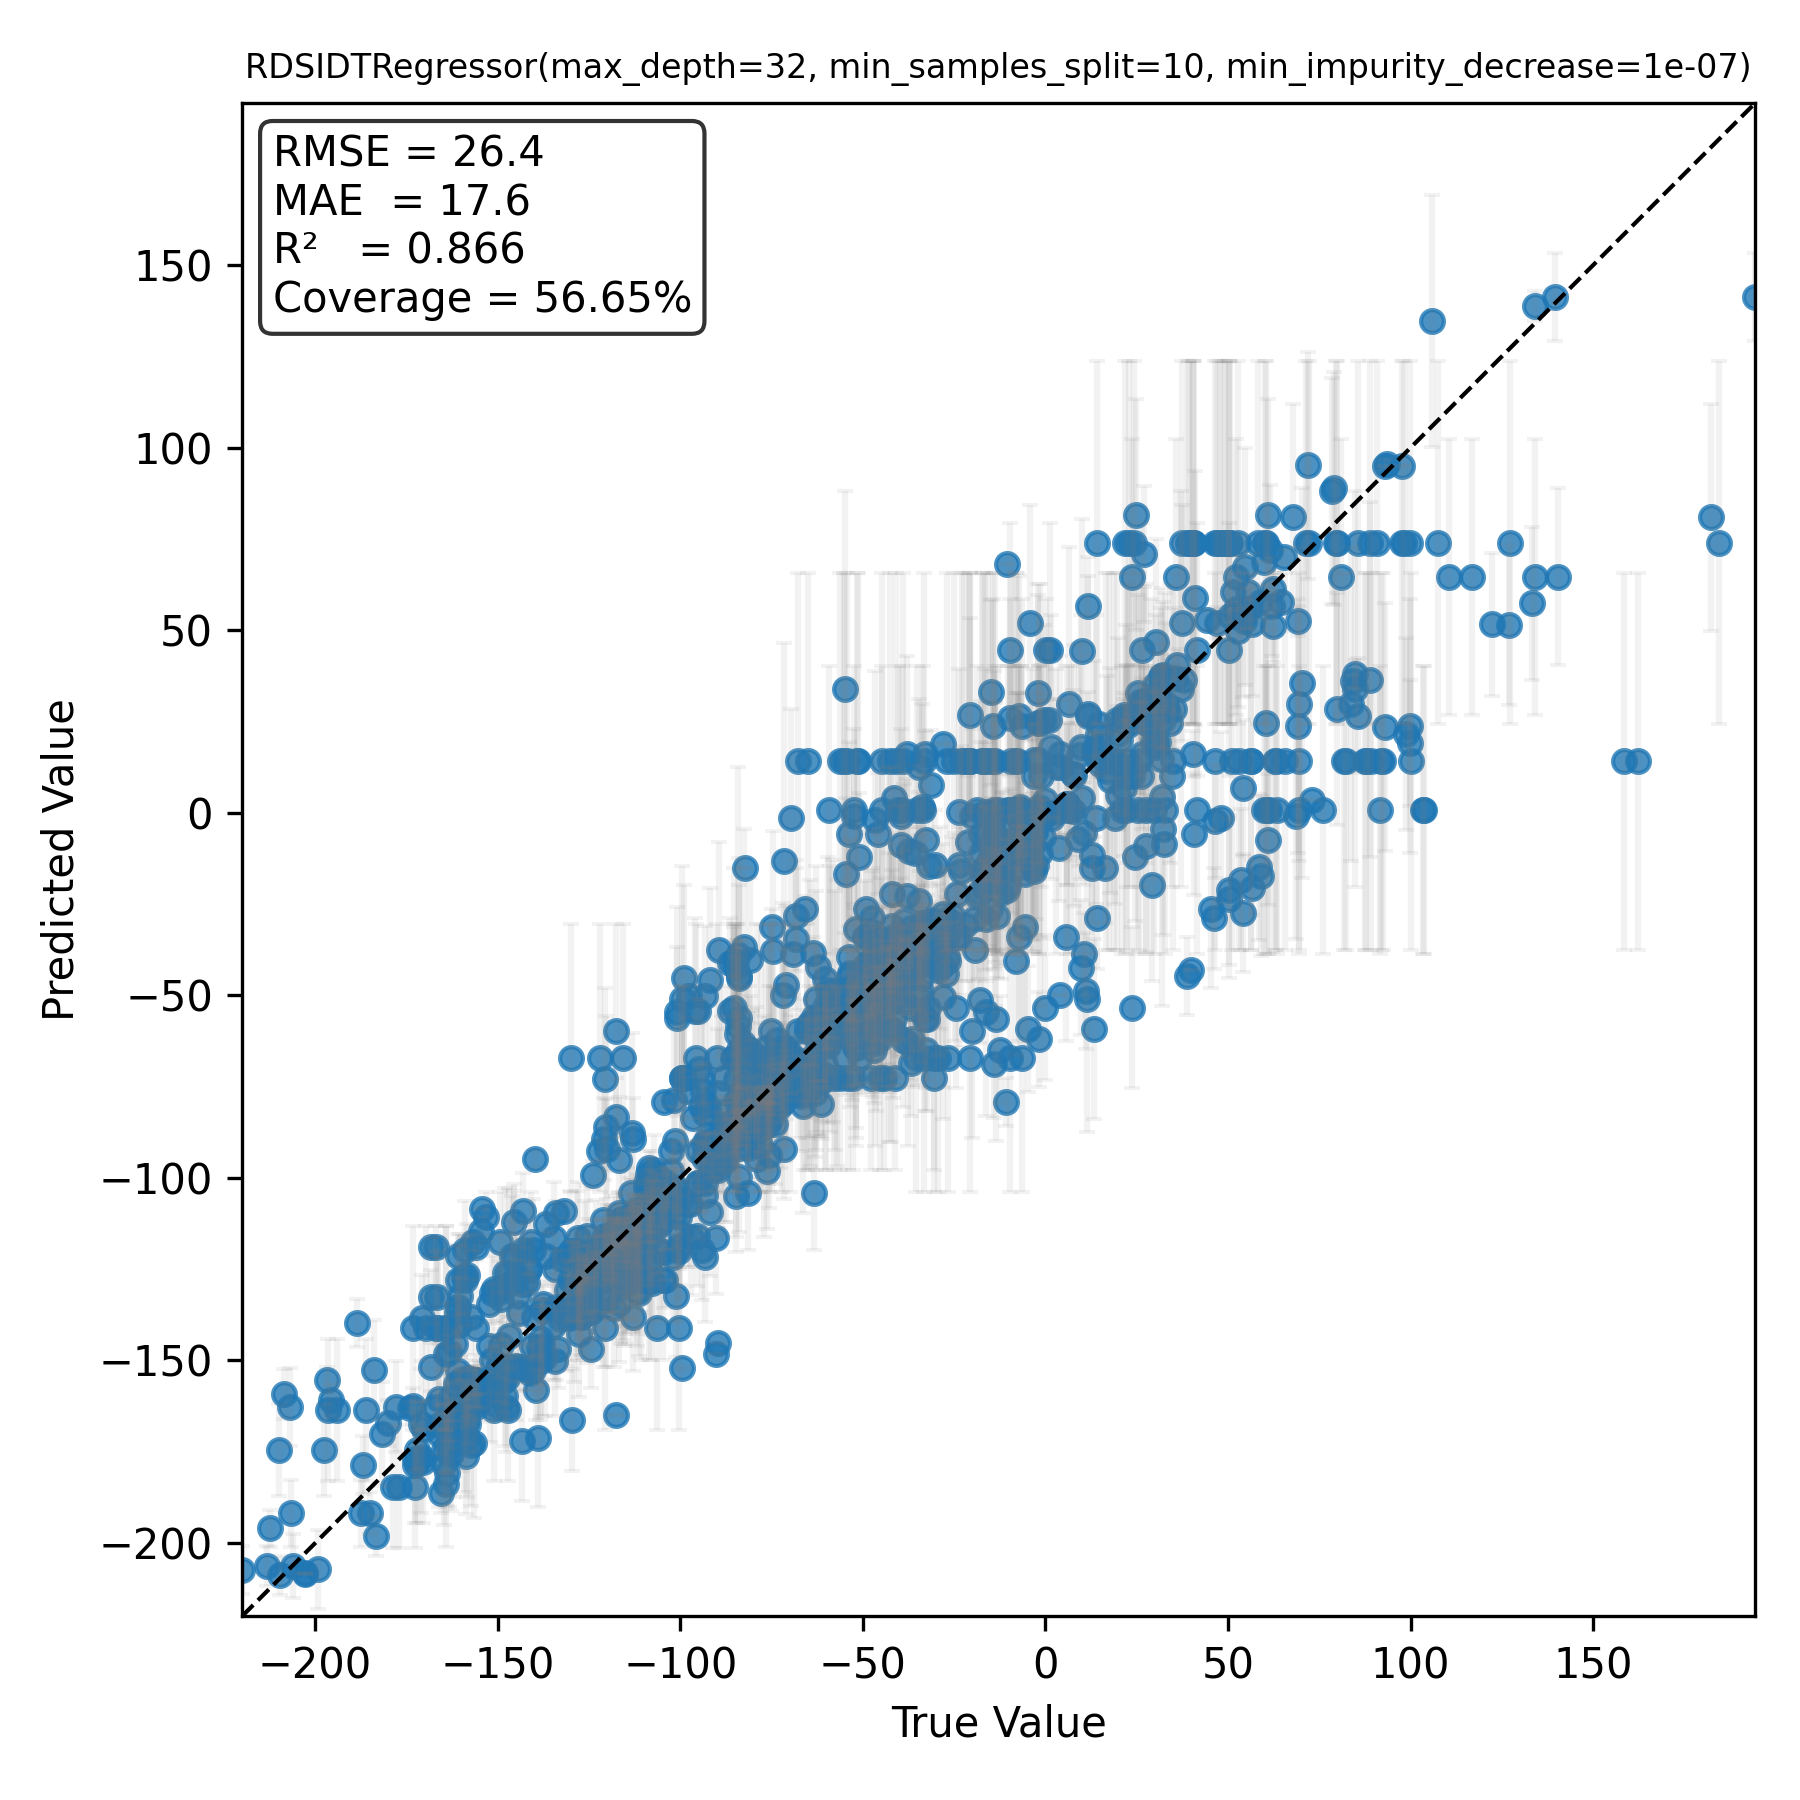
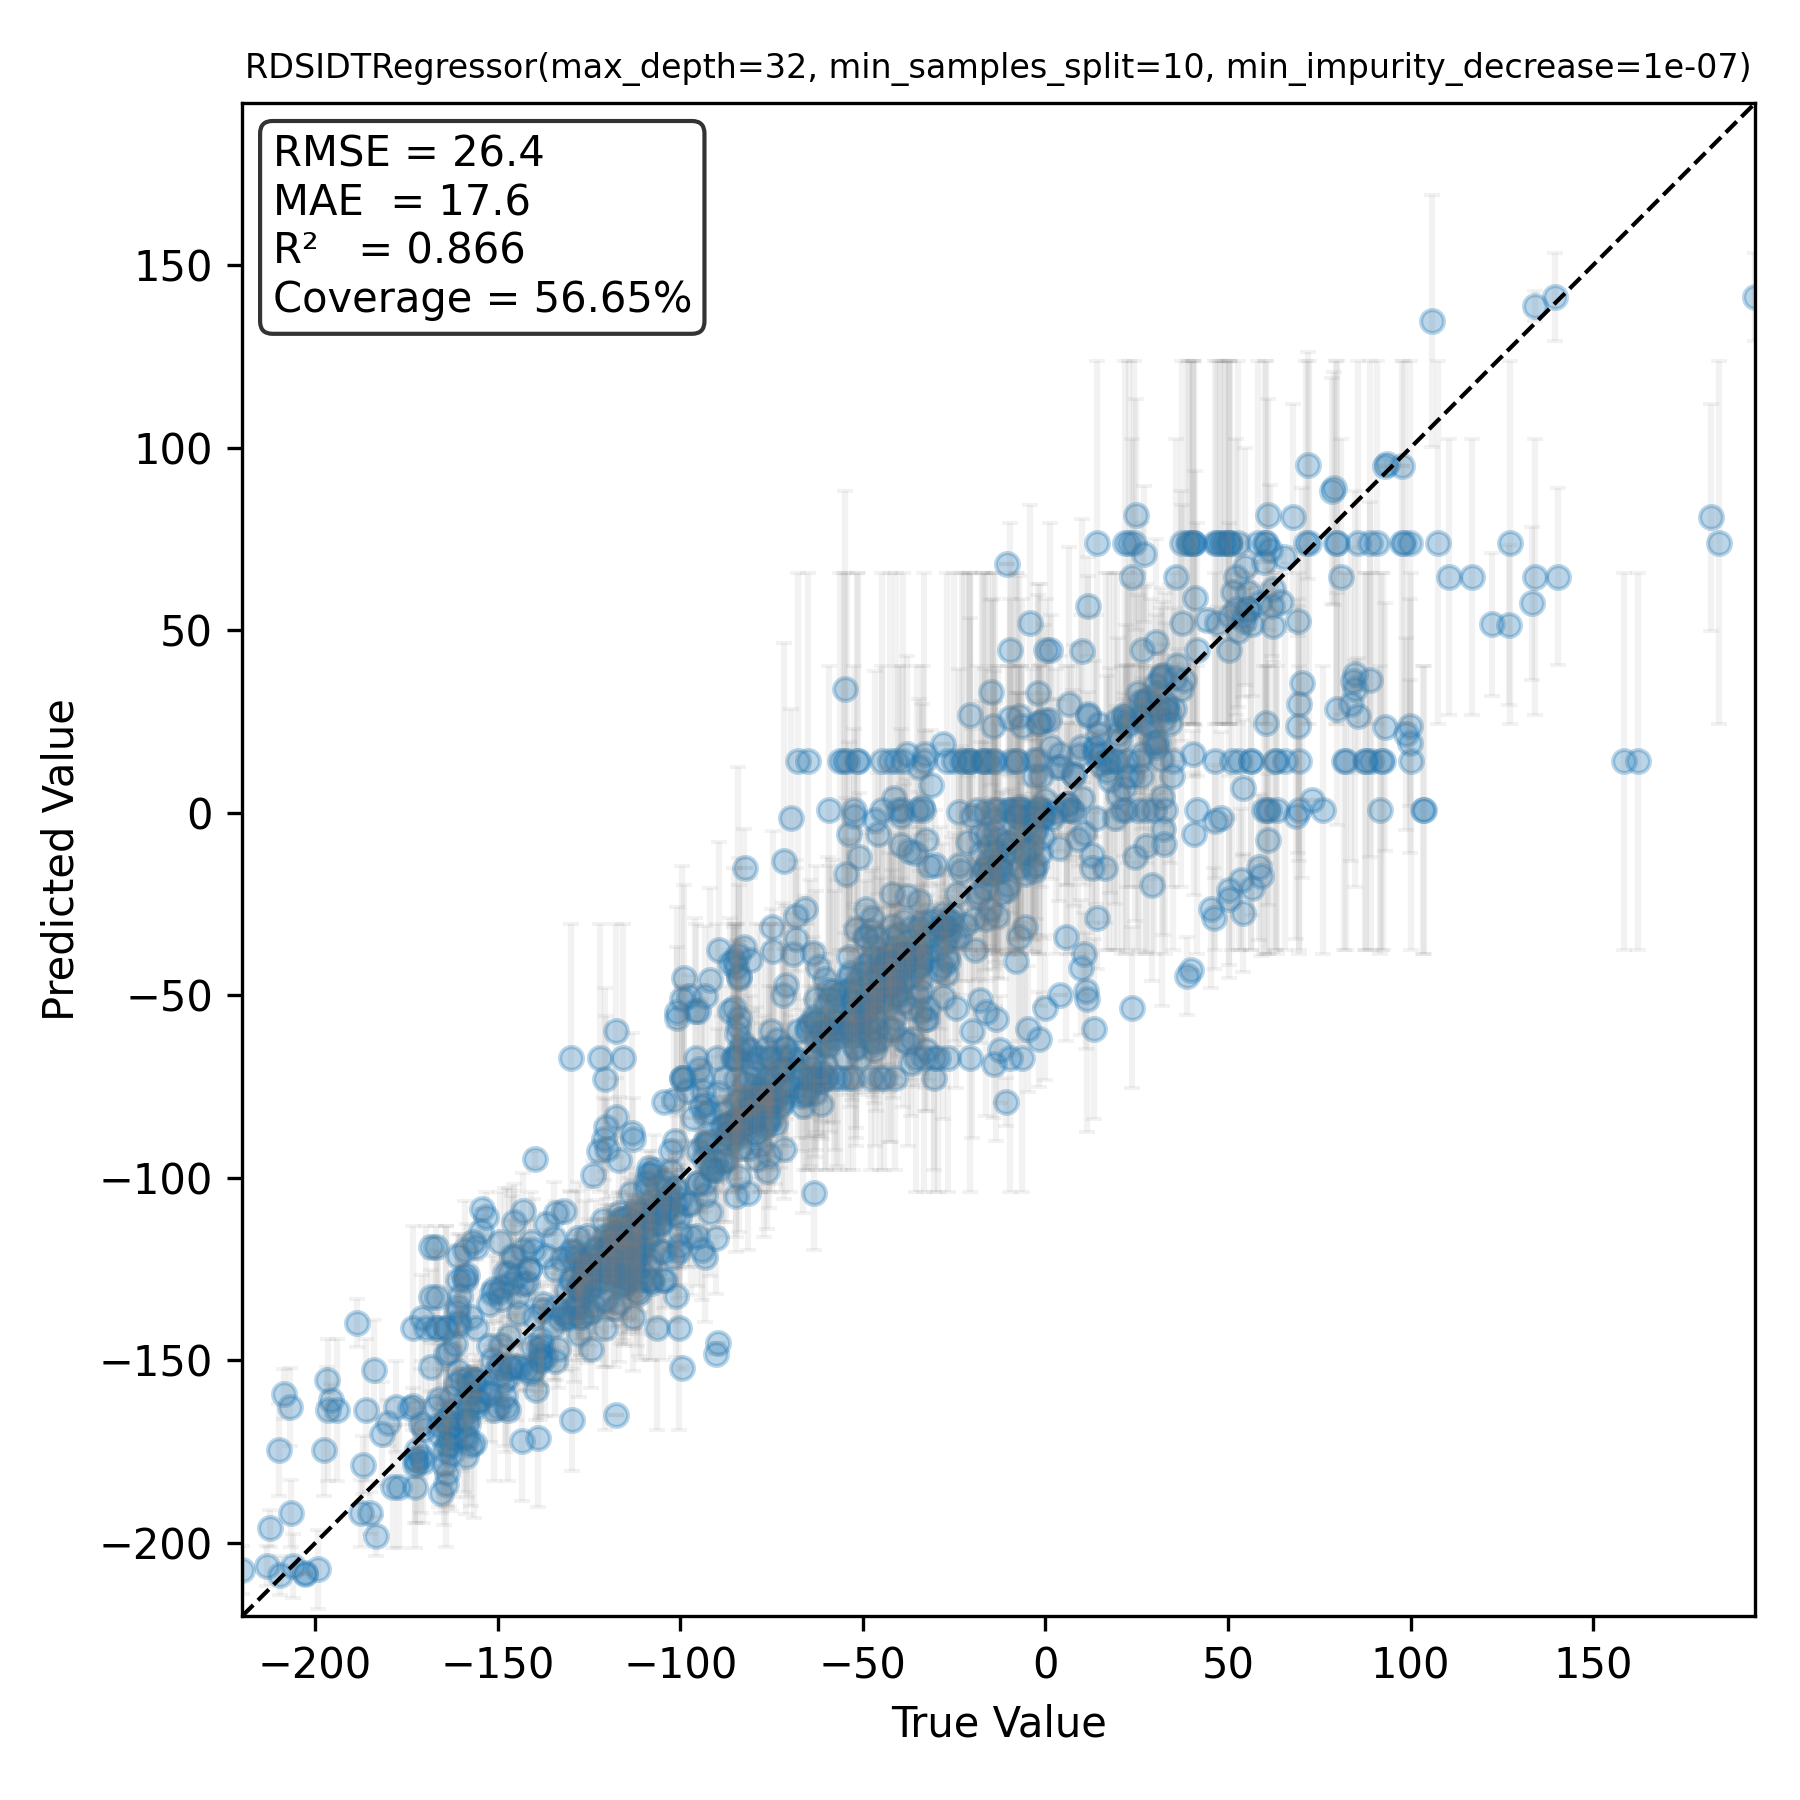
beautify

diff --git a/parity.py b/parity.py
@@ -37,7 +37,7 @@ def parity_plot_with_intervals(
     if ax is None:
         fig, ax = plt.subplots(figsize=(6, 6))
 
-    point_kwargs = point_kwargs or dict(s=30, alpha=0.8)
+    point_kwargs = dict(s=30, alpha=0.8) | point_kwargs
     errorbar_kwargs = dict(
         fmt="none", ecolor="gray", alpha=0.6, capsize=2
     )  |errorbar_kwargs

diff --git a/sidt.py b/sidt.py
@@ -385,5 +385,6 @@ if __name__ == "__main__":
         y_err=y_stdev,
         title=str(model),
         outfile="sidt_parity.png",
+        point_kwargs={"alpha": 0.3},
         errorbar_kwargs={"alpha": 0.1},
     )   
